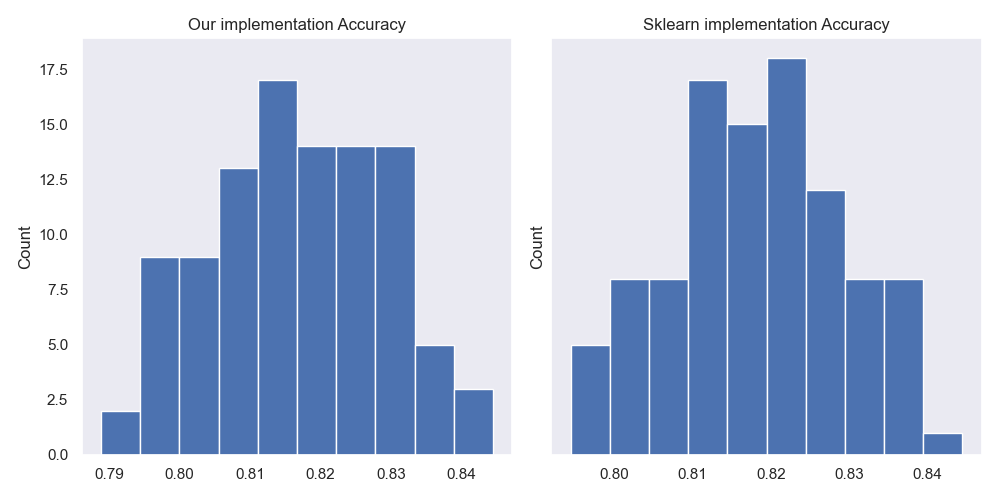
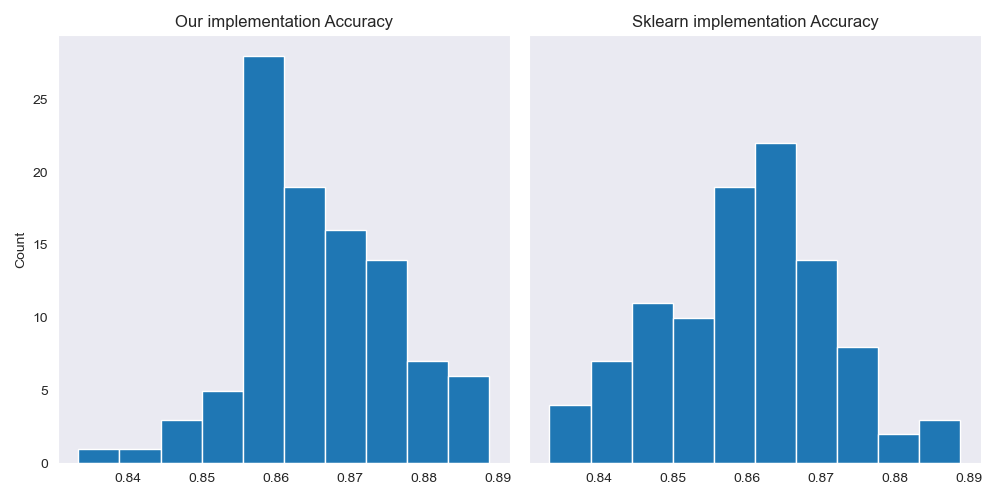
sharey

diff --git a/src/models/validate_implementations/decision_tree/validate.py b/src/models/validate_implementations/decision_tree/validate.py
@@ -21,7 +21,6 @@ def accuracy(X, y,
     ax[0].set_ylabel("Count")
     ax[0].hist(our_accuracy)
     ax[0].set_title("Our implementation Accuracy")
-    ax[1].set_ylabel("Count")
     ax[1].hist(sk_accuracy)
     ax[1].set_title("Sklearn implementation Accuracy")
 
@@ -37,7 +36,6 @@ def depth(fitted_sk: list[DecisionTreeClassifier],
     ax[0].set_ylabel("Count")
     ax[0].hist(our_depth)
     ax[0].set_title("Our implementation Tree Depth")
-    ax[1].set_ylabel("Count")
     ax[1].hist(sklearn_depth)
     ax[1].set_title("Sklearn implementation Tree Depth")
 
@@ -53,7 +51,6 @@ def leaf(fitted_sk: list[DecisionTreeClassifier],
     ax[0].set_ylabel("Count")
     ax[0].hist(our_leaves)
     ax[0].set_title("Our implementation Tree Leaves")
-    ax[1].set_ylabel("Count")
     ax[1].hist(sklearn_leaves)
     ax[1].set_title("Sklearn implementation Tree Leaves")
 
@@ -74,7 +71,7 @@ if __name__ == "__main__":
     fitted_our = [DecisionTree().fit(X_train, y_train) for _ in range(100)]
     fitted_sk = [DecisionTreeClassifier().fit(X_train, y_train) for _ in range(100)]
     accuracy(X_test, y_test, fitted_sk, fitted_our)
-    #depth(fitted_sk, fitted_our)
-    #leaf(fitted_sk, fitted_our)
+    depth(fitted_sk, fitted_our)
+    leaf(fitted_sk, fitted_our)
     plt.show()
 
